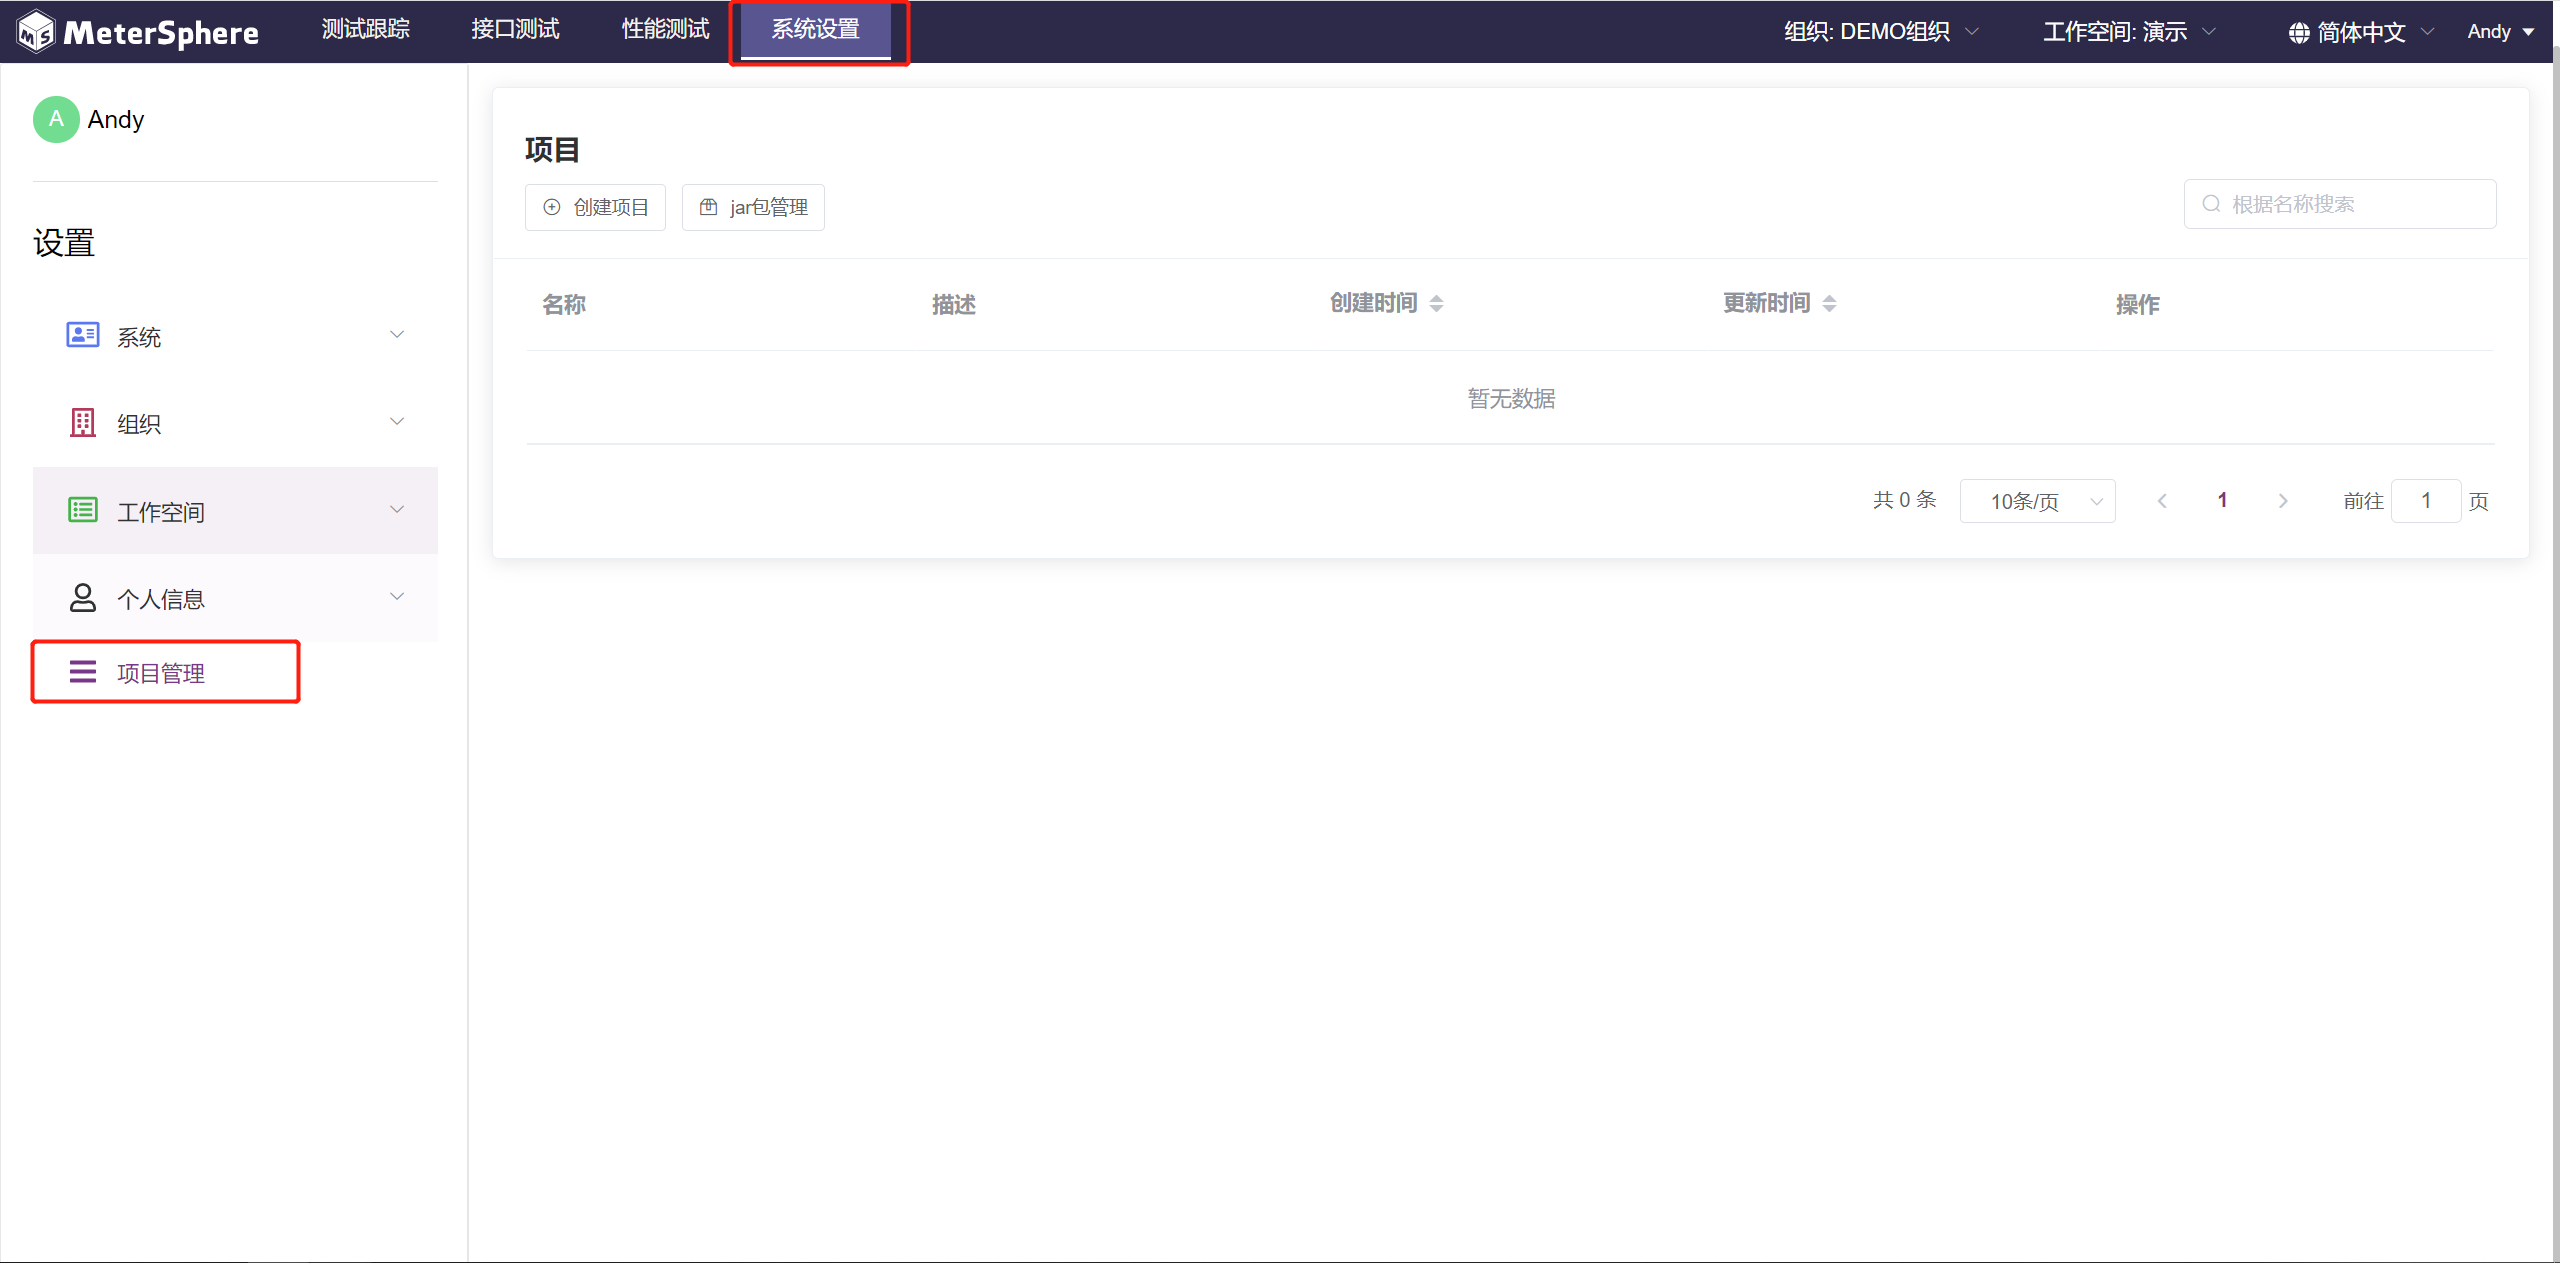
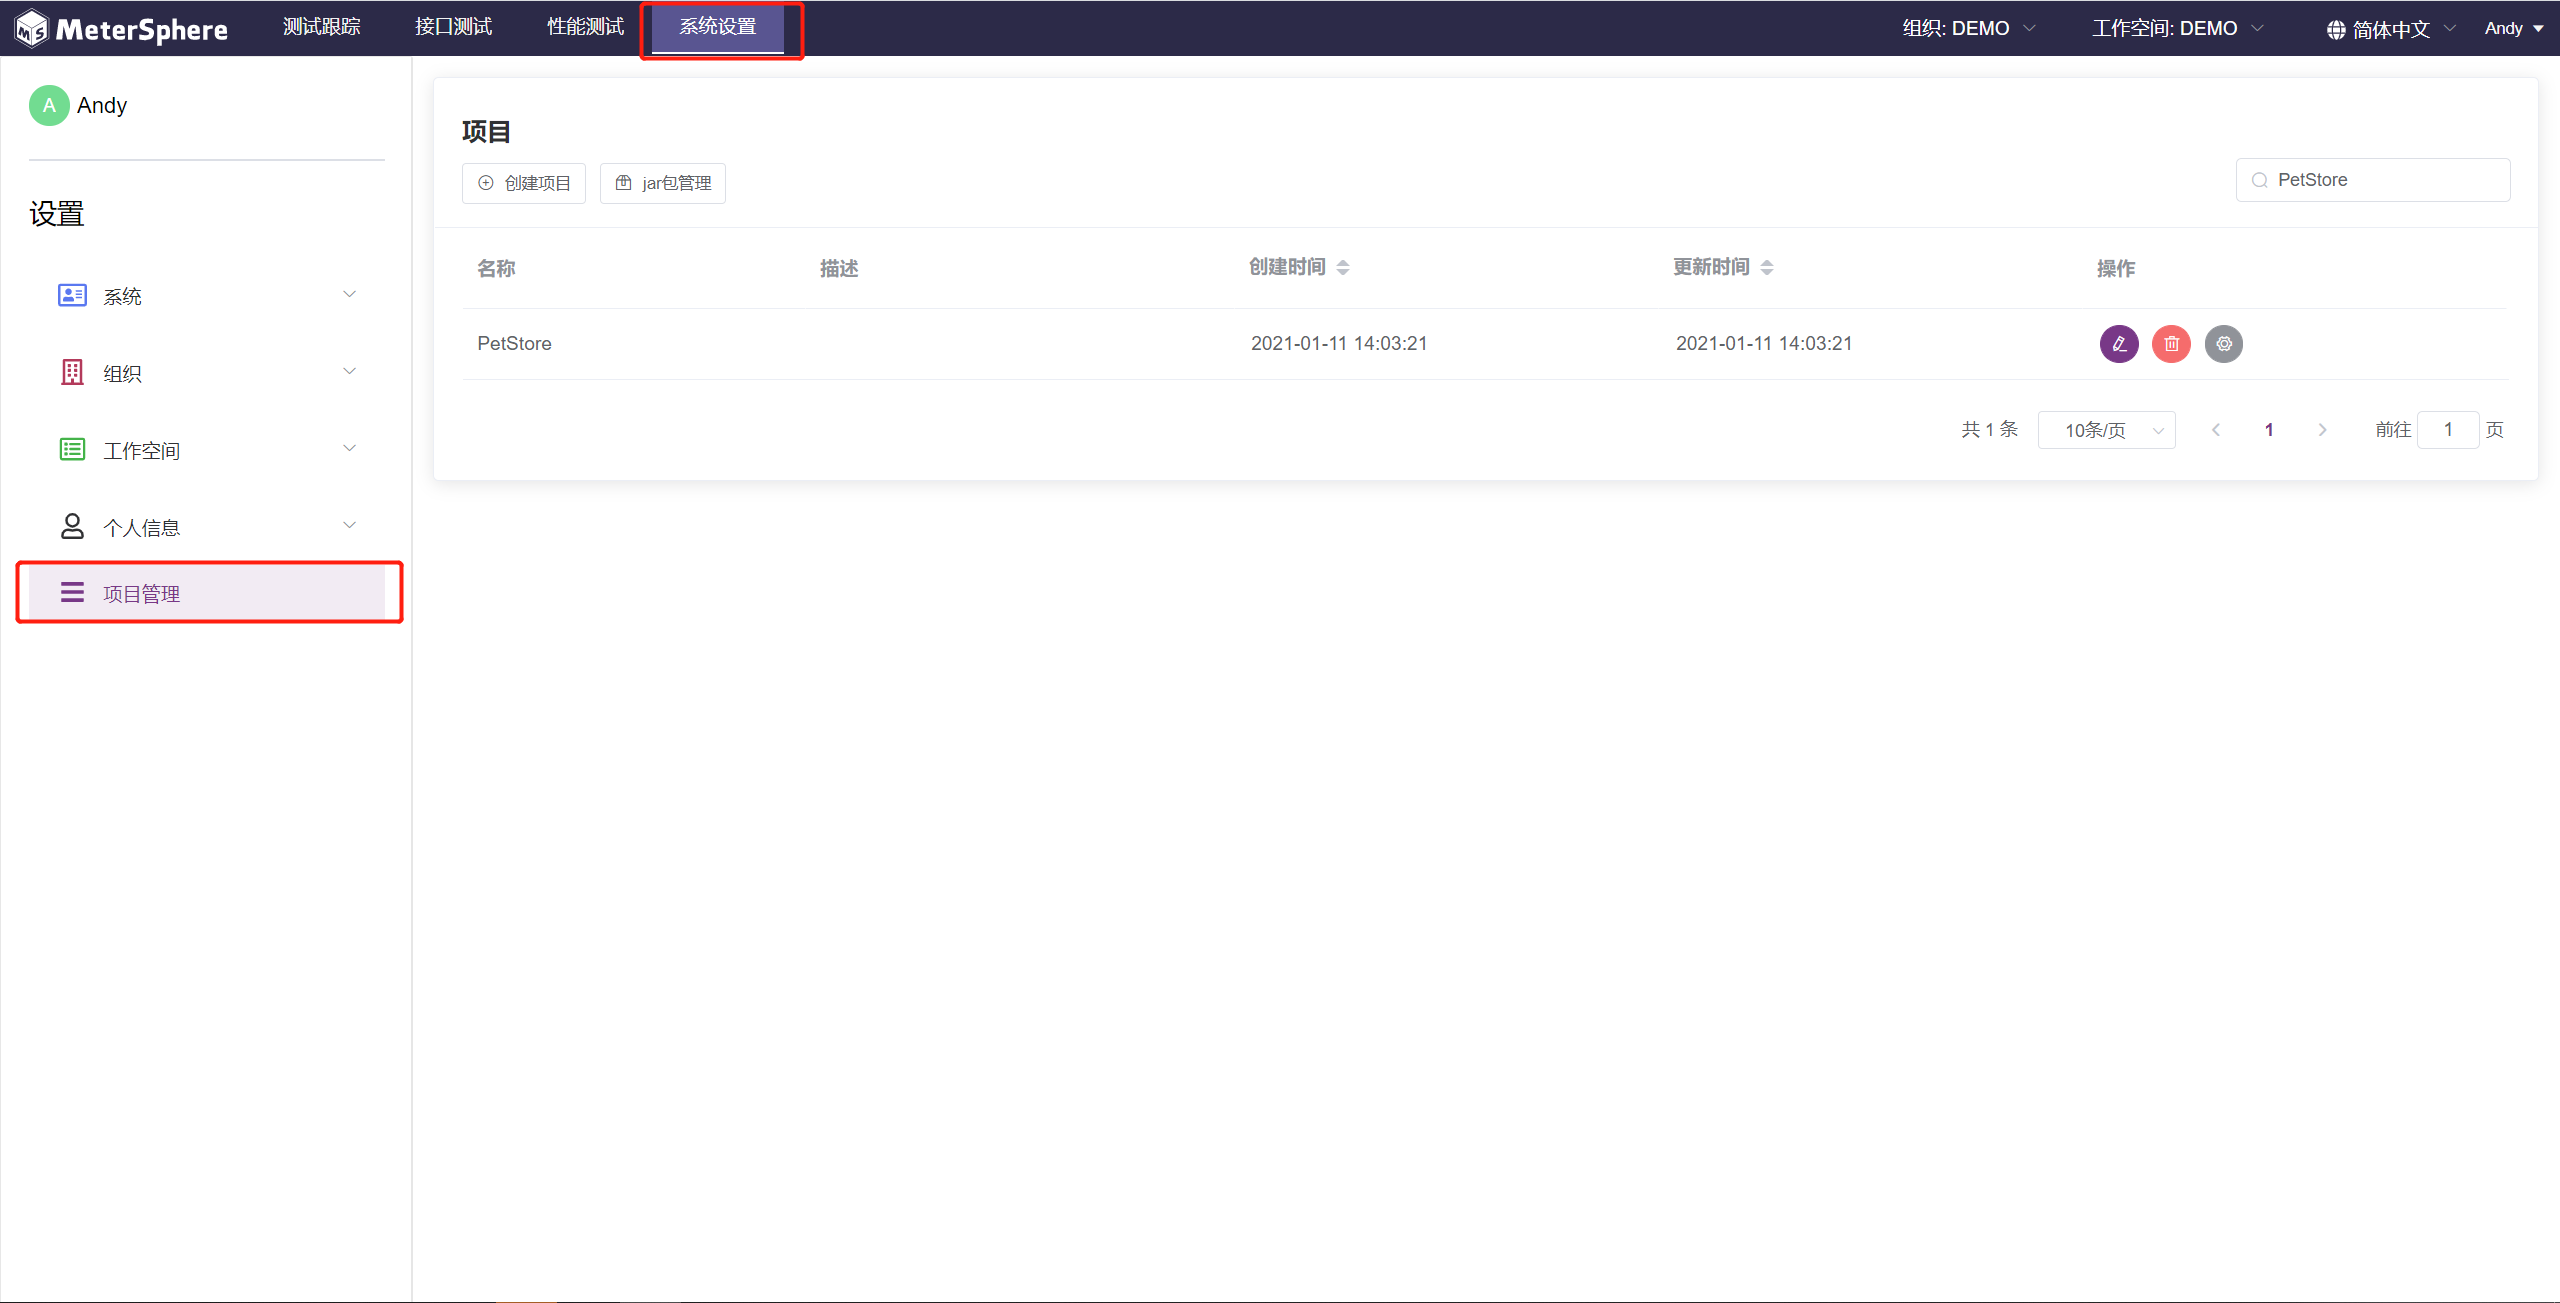
修改快速开始部分

diff --git a/docs/quick_start/api_test.md b/docs/quick_start/api_test.md
@@ -1,9 +1,84 @@
-MeterSphere 接口测试模块提供了测试用例管理、测试用例评审、测试计划跟踪等测试管理相关功能。
-用户可以在该模块中按照树状的功能模块来组织管理项目下的测试用例，同时针对已添加的测试用例进行评审，将待测试的功能测试用例、接口测试用例及性能测试用例添加到同一个测试计划中进行执行，生成统一的测试报告。
+MeterSphere 接口测试模块提供了接口定义、接口自动化等接口测试相关功能。
+用户可以在该模块中按照树状的功能模块来组织管理项目下的接口列表，同时针对已添加的接口创建单接口用例，使用多个接口配合变量提取、条件判断等功能进行场景化的接口测试。
+![!接口测试首页](../../img/api/接口测试首页.png)
 
 ## 维护接口定义
 
+进入 `接口测试`--`接口定义` 页面。
+![!接口定义](../../img/api/接口定义.png)
+
+### 导入 Swagger 接口文档
+
+点击左侧下拉菜单中的 `导入` 按钮，选择 Swagger 数据格式，并填入 Swagger URL `https://petstore.swagger.io/v2/swagger.json`，导入 PetStore 的 API 接口。
+![!导入swagger文件](../../img/api/导入swagger文件.gif)
+
+### 查看接口定义
+
+导入 Swagger 文件之后，在接口列表中找到 `Finds Pets by status` 接口，点击操作列中的 `编辑` 按钮，查看接口详情。
+![!编辑接口详情](../../img/api/编辑接口详情.gif)
+
+
+### 为项目添加测试环境
+
+接口列表中仅记录了接口的相对 URL，当我们需要对某个接口进行测试时，需要先在该项目中添加针对该项目的测试环境信息。
+
+进入 `系统设置`--`项目管理` 页面。
+![!项目管理](../../img/system_management/项目管理.png)
+
+点击 PetStore 项目操作列中的 `环境配置` 按钮，
+![!添加环境](../../img/system_management/添加环境.gif)
+
+### 调试单个接口
+
+在接口列表中找到 `Finds Pets by status` 接口，点击操作列中的 `编辑` 按钮，进入接口详情页面。
+
+点击页面右上角的 `测试` 按钮，进入接口测试页面。在接口测试页面选择接口执行环境，并填写接口所需的参数后，点击 `测试` 按钮发送该接口请求。当接口请求完成后，可以在下方的响应内容中查看到本次接口请求的响应信息。
+![!调试单个接口](../../img/api/调试单个接口.gif)
 
 ## 创建单接口用例
+
+进入 `接口测试`--`接口定义` 页面。
+![!接口定义](../../img/api/接口定义.png)
+
+### 新建单接口用例
+
+在接口列表中找到 `Finds Pets by status` 接口，点击操作列中的 `用例` 按钮，弹出该接口下的用例列表页面。
+
+输入接口用例的名称及请求接口所需的其他参数后，点击右下角的 `保存` 按钮保存该接口用例。
+![!新建单接口用例](../../img/api/新建单接口用例.gif)
+
+### 测试单接口用例
+
+在单接口用例列表中选择执行环境，点击单接口用例列表中的 `执行` 按钮，当执行结束后，展开用例详情查看响应内容。
+![!测试单接口用例](../../img/api/测试单接口用例.gif)
+
 ## 创建场景用例
+
+进入 `接口测试`--`接口自动化` 页面。
+![!接口自动化](../../img/api/接口自动化.png)
+
+### 新建场景用例
+
+在场景用例列表页面，点击左侧的模块树新建 `宠物` 模块，点击创建场景按钮新建一个 `查询已出售的第一个宠物` 的场景，填写场景其他信息后，点击 `保存` 按钮保存该场景。
+![!新建场景用例](../../img/api/新建场景用例.gif)
+
+### 在场景用例中添加步骤
+
+点击场景详情中右下角的添加场景步骤按钮，在场景中一次添加如下几个步骤。
+
+1. 选择 `接口列表导入` 步骤，在弹出的接口列表中找到 `Finds Pets by status` 接口进行添加。修改该接口请求中的 `status` QUERY参数的值为 `sold`。
+    1. 选中 `Finds Pets by status` 请求步骤，点击添加步骤按钮，在该请求下添加一个 `提取参数` 子步骤。步骤名称为 `提取返回的第一个宠物ID`，提取方式为 JSONPath 提取，变量名为 `petId`，JSONPath 表达式为 `$[0].id`
+2. 再次添加一个 `接口列表导入` 步骤，选择 `Find Pet by id` 接口。修改该接口请求中的 `petId` REST 参数值为 `${petId}`，引用上一步请求中提取到的变量值。
+![!在场景用例中添加步骤](../../img/api/在场景用例中添加步骤.gif)
+
 ## 查看测试报告
+
+### 执行场景用例
+
+场景步骤添加完成后，返回场景列表，点击新创建场景操作列中的 `执行` 按钮，场景执行结果将在弹出的页面中进行展示。
+![!执行场景并查看结果](../../img/api/执行场景并查看结果.gif)
+
+### 将场景用例执行结果保存为测试报告
+
+执行场景后默认只保存最近一次的执行结果，用户可以将某次执行结果进行保存为测试报告，便于后续再次查看。
+![!保存测试报告](../../img/api/保存测试报告.gif)

diff --git a/docs/quick_start/load_test.md b/docs/quick_start/load_test.md
@@ -1,4 +1,39 @@
+MeterSphere 性能测试模块支持用户通过已有的接口测试创建或直接上传 JMX 脚本来创建性能测试，并按需调整并发用户数等压力参数。
+
 ## 创建测试资源池
+
+通过安装包安装 MeterSphere 后，系统默认使用当前节点创建了名为 `LOCAL` 测试资源池。关于测试资源池的作用请参考 [FAQ](../faq.md#q)。
+
+如果需要创建新的测试资源池，或向已有资源池中添加节点，请参考 [如何向测试资源池中添加节点？](../faq.md#q_1)
+![!测试资源池](../../img/system_management/测试资源池.png)
+
 ## 创建性能测试
+
+进入 `接口测试`--`接口自动化` 页面。
+
+在接口场景用例列表中选择某个场景，点击更多操作中的 `创建性能测试`，系统将创建一个同名的性能测试的性能测试，并进入该性能测试的压力配置页面。
+![!通过接口测试创建性能测试](../../img/api/通过接口测试创建性能测试.png)
+
 ## 调整压力配置
+
+在压力配置页面选择系统自带的 `LOCAL` 测试资源池。
+![!性能测试选择资源池](../../img/performance/性能测试选择资源池.png)
+
+点击展开第一个线程组的配置页面，填入并发参数。
+
+具体的并发配置如下：
+
+- 并发用户数：10
+- 选择 `按持续时间` 模式
+- 压测时长：60秒
+- RPS 上限不设置
+- 在 10秒内分 5步增加并发用户
+![!配置压力参数](../../img/performance/配置压力参数.png)
+
 ## 执行并查看报告
+
+点击性能测试配置页面的 `保存并执行` 按钮，系统自动进入性能测试测试报告页面。当收到测试结果数据后，报告页面将自动更新。
+![!性能测试报告](../../img/performance/性能测试报告.png)
+
+
+
